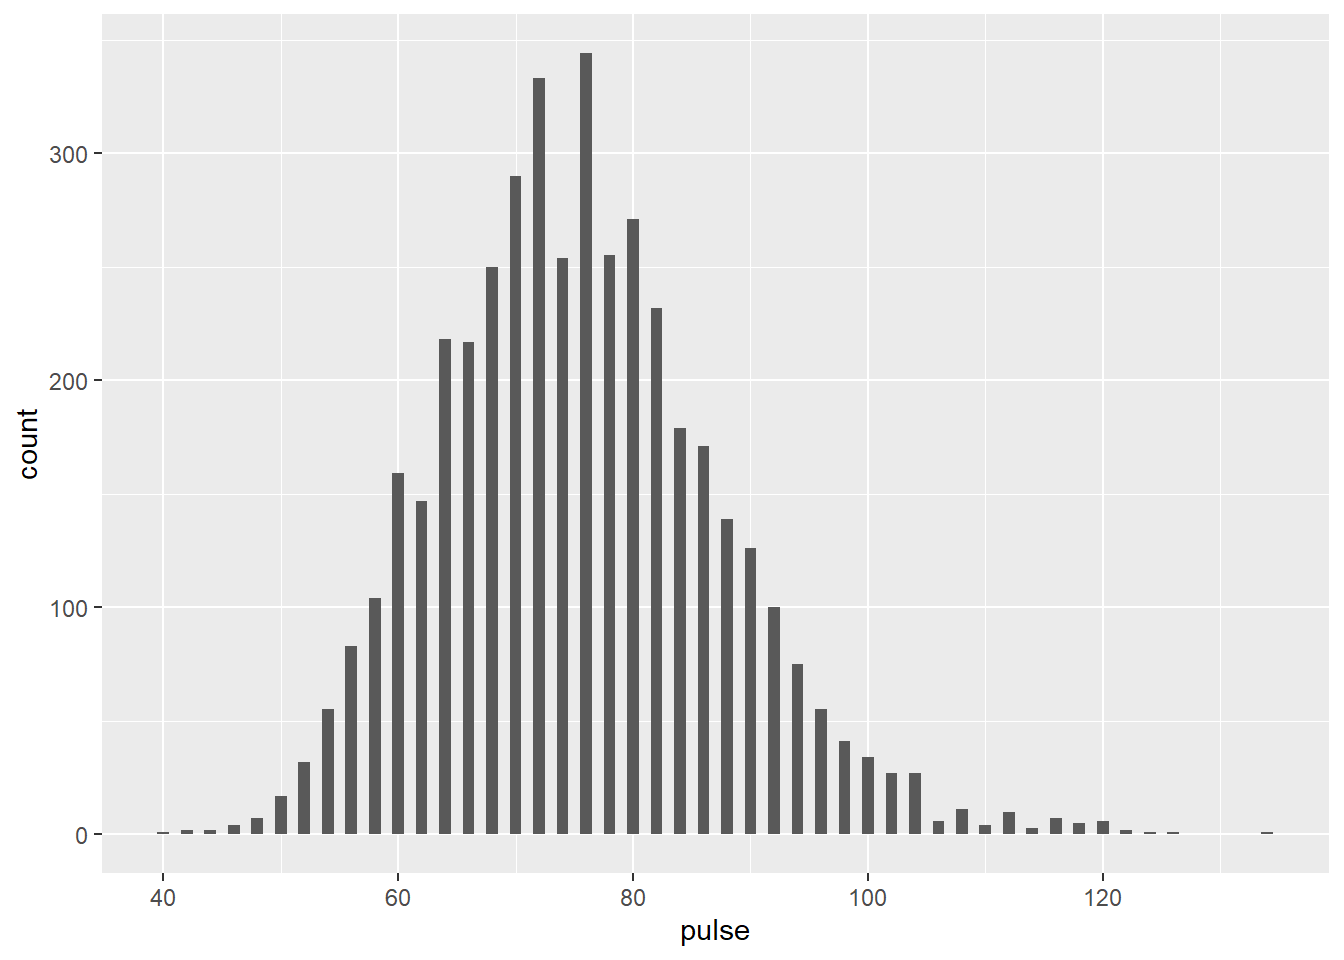
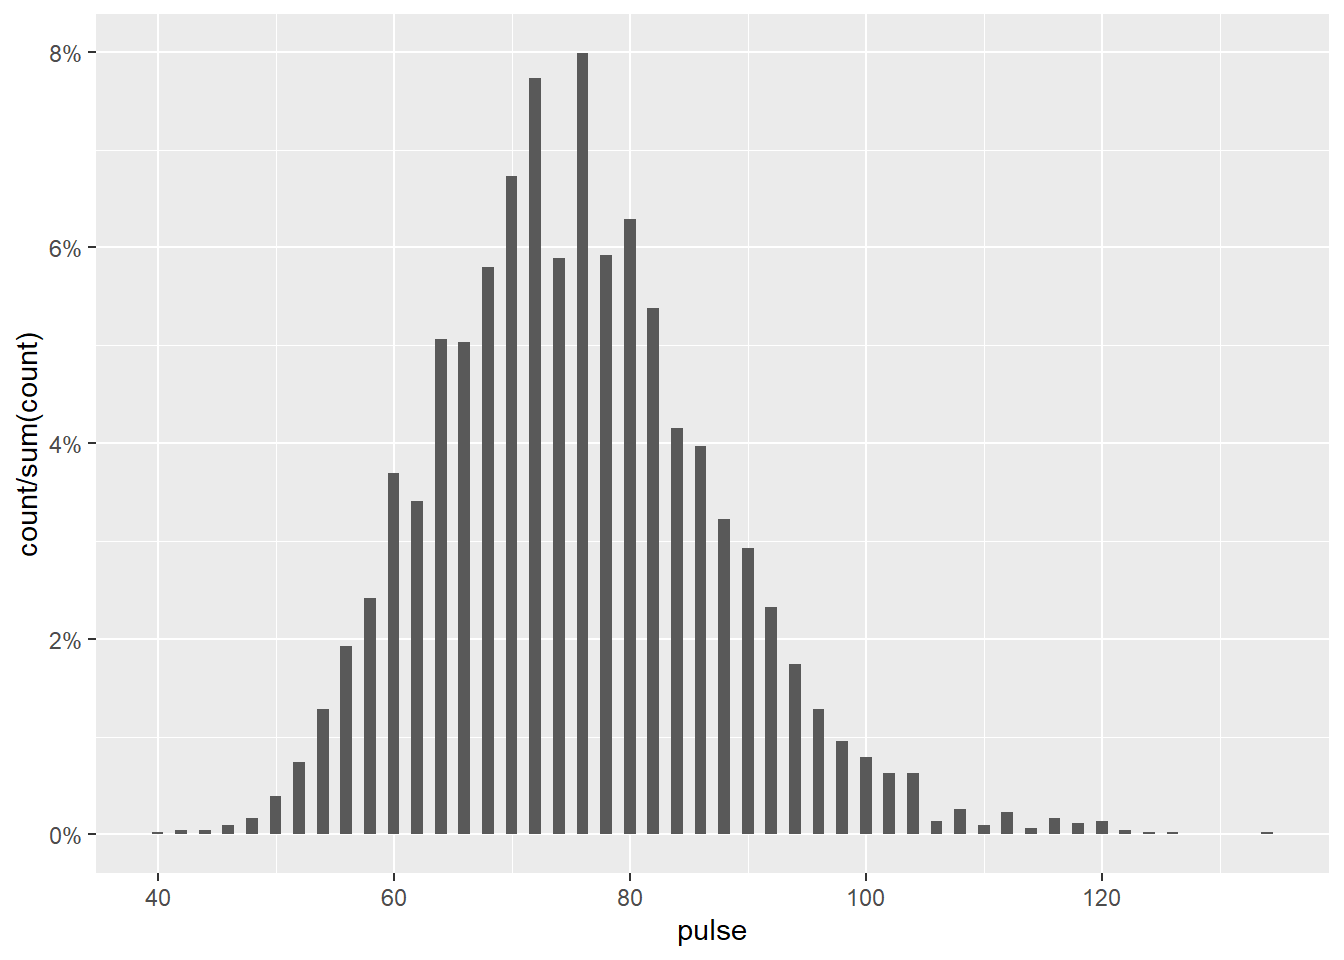
init

diff --git a/analysis.html b/analysis.html
@@ -64,28 +64,13 @@ ul.task-list li input[type="checkbox"] {
 <h2 class="anchored" data-anchor-id="question">Question</h2>
 <p>What is the difference in pulse rate between two randomly selected female students in this class?</p>
 <div class="cell">
-<div class="cell-output cell-output-stdout">
-<pre><code># A tibble: 10,000 × 15
-   survey gender   age race  education    hh_income   weight height   bmi pulse
-    &lt;int&gt; &lt;chr&gt;  &lt;int&gt; &lt;chr&gt; &lt;fct&gt;        &lt;fct&gt;        &lt;dbl&gt;  &lt;dbl&gt; &lt;dbl&gt; &lt;int&gt;
- 1   2009 Male      34 White High School  25000-34999   87.4   165.  32.2    70
- 2   2009 Male      34 White High School  25000-34999   87.4   165.  32.2    70
- 3   2009 Male      34 White High School  25000-34999   87.4   165.  32.2    70
- 4   2009 Male       4 Other &lt;NA&gt;         20000-24999   17     105.  15.3    NA
- 5   2009 Female    49 White Some College 35000-44999   86.7   168.  30.6    86
- 6   2009 Male       9 White &lt;NA&gt;         75000-99999   29.8   133.  16.8    82
- 7   2009 Male       8 White &lt;NA&gt;         55000-64999   35.2   131.  20.6    72
- 8   2009 Female    45 White College      75000-99999   75.7   167.  27.2    62
- 9   2009 Female    45 White College      75000-99999   75.7   167.  27.2    62
-10   2009 Female    45 White College      75000-99999   75.7   167.  27.2    62
-# ℹ 9,990 more rows
-# ℹ 5 more variables: diabetes &lt;int&gt;, general_health &lt;int&gt;, depressed &lt;fct&gt;,
-#   pregnancies &lt;int&gt;, sleep &lt;int&gt;</code></pre>
+<div class="cell-output-display">
+<p><img src="analysis_files/figure-html/unnamed-chunk-4-1.png" class="img-fluid" width="672"></p>
 </div>
 </div>
 <div class="cell">
 <div class="cell-output-display">
-<p><img src="analysis_files/figure-html/unnamed-chunk-4-1.png" class="img-fluid" width="672"></p>
+<p><img src="analysis_files/figure-html/unnamed-chunk-7-1.png" class="img-fluid" width="672"></p>
 </div>
 </div>
 </section>
@@ -136,6 +121,9 @@ ul.task-list li input[type="checkbox"] {
 </section>
 <section id="courage" class="level2">
 <h2 class="anchored" data-anchor-id="courage">Courage</h2>
+</section>
+<section id="wisdom-1" class="level2">
+<h2 class="anchored" data-anchor-id="wisdom-1">Wisdom</h2>
 </section>
 
 </main>
